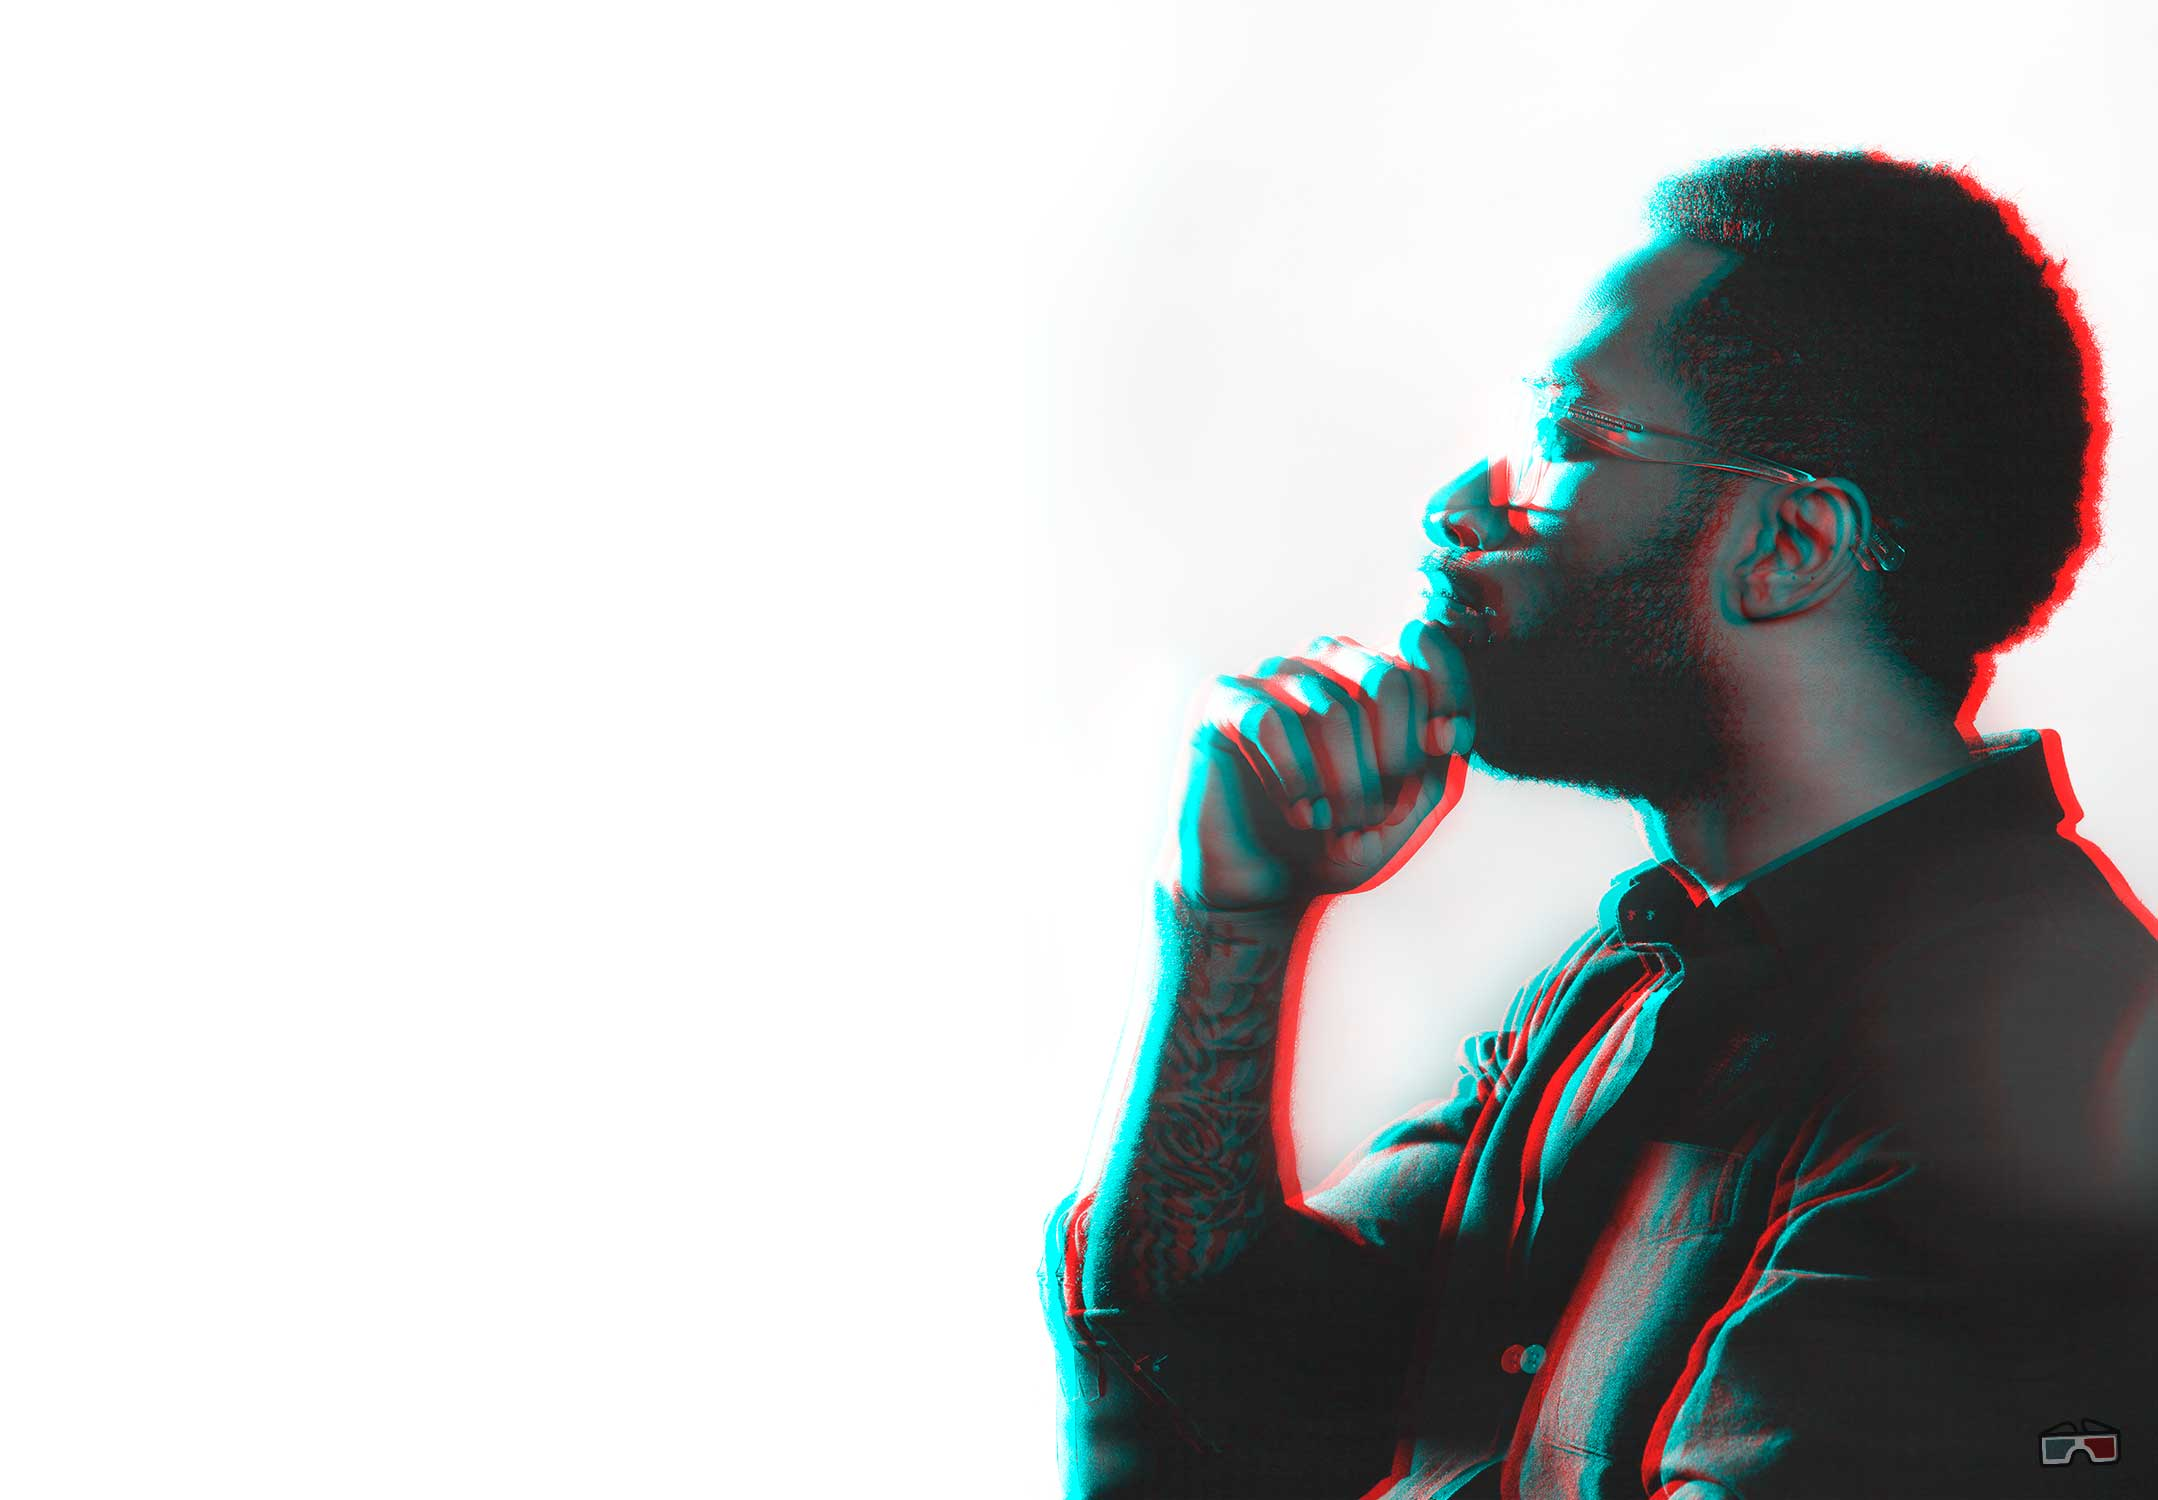
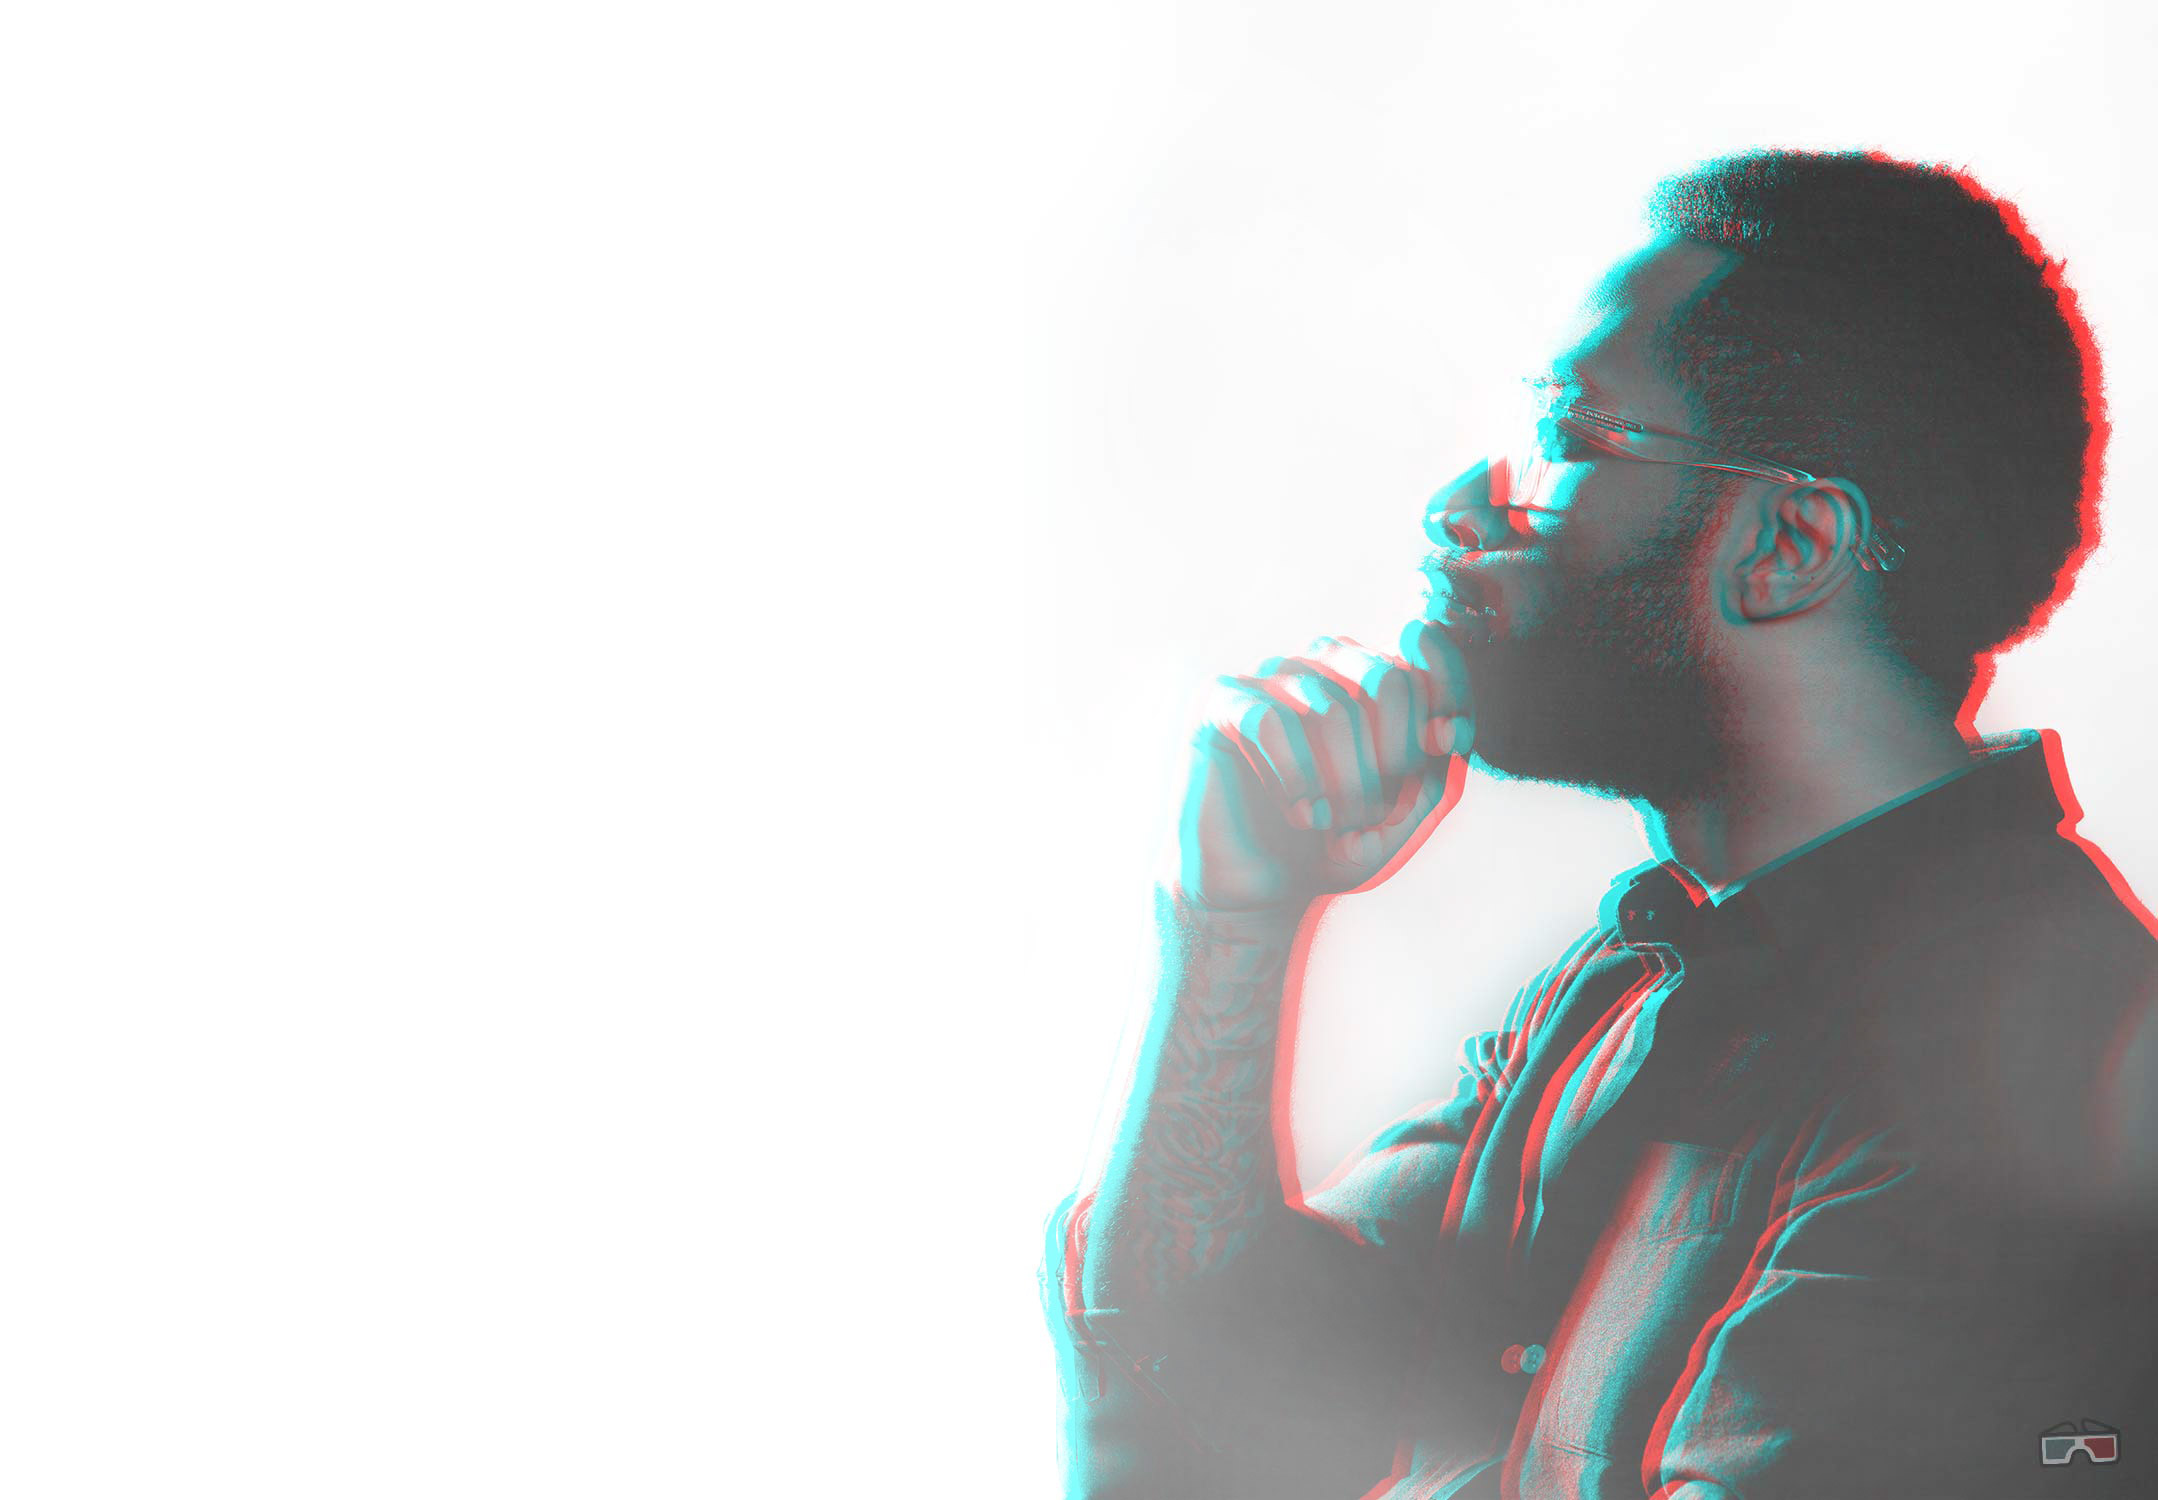
updated mobile layout

diff --git a/public/css/master.css b/public/css/master.css
@@ -45,9 +45,8 @@ body{
 }
 #header{
   min-height: 700px;
-  background:#fff url('../img/header-bg.jpg') center center no-repeat;
+  /*background:#fff url('../img/header-bg.jpg') center center no-repeat;*/
   background-size: cover;
-  padding-top: 8%;
   padding-bottom: 50px;
 }
 .heading-black, .subheading-black, .text-black{
@@ -56,13 +55,17 @@ body{
 .heading-white, .subheading-white, .text-white{
   color: white;
 }
+img.header-main {
+    position: absolute;
+    left: -20px;
+}
  .heading{
   font-family: 'Old Standard TT', serif;
   text-transform: uppercase;
   font-weight: 700;
   font-size: 130px;
   line-height: 115px;
-  margin: 0 0 30px;
+  margin: 150px 0 30px;
 }
  .subheading{
   font-family: 'Source Sans Pro', sans-serif;
@@ -78,6 +81,7 @@ body{
   font-family: 'Source Sans Pro', sans-serif;
   text-align: justify;
 }
+
  #services, #about, #portfolio, #contact{
    padding: 100px 0;
  }
@@ -442,8 +446,49 @@ body{
 .btn.btn-alt-color:after {
   background-color: salmon;
 }
+.row.no-gutters {
+  margin-right: 0;
+  margin-left: 0;
+}
+.row.no-gutters > [class^="col-"],
+.row.no-gutters > [class*=" col-"] {
+  padding-right: 0;
+  padding-left: 0;
+}
+.no-gutter > [class*='col-'] {
+    padding-right:0;
+    padding-left:0;
+}
  /************ BTN CSS **************/
-
+/********* MOBILE ****************/
+@media(max-width: 760px){
+  p{
+    text-align: justify;
+  }
+  img.header-main {
+      position: relative;
+      left: 0;
+      margin-top: 50px;
+  }
+    .heading {
+     text-align: center;
+     font-size: 5em;
+     line-height: .9em;
+     margin: 0 0 30px;
+  }
+  p.welcome-message{
+    text-align: justify;
+  }
+  .animated {
+    width: 260px;
+  }
+  #about {
+    background:#fff;
+  }
+  .glitch {
+    width: auto;
+}
+}
  @-webkit-keyframes RevealText {
    from {
      width: 0;
